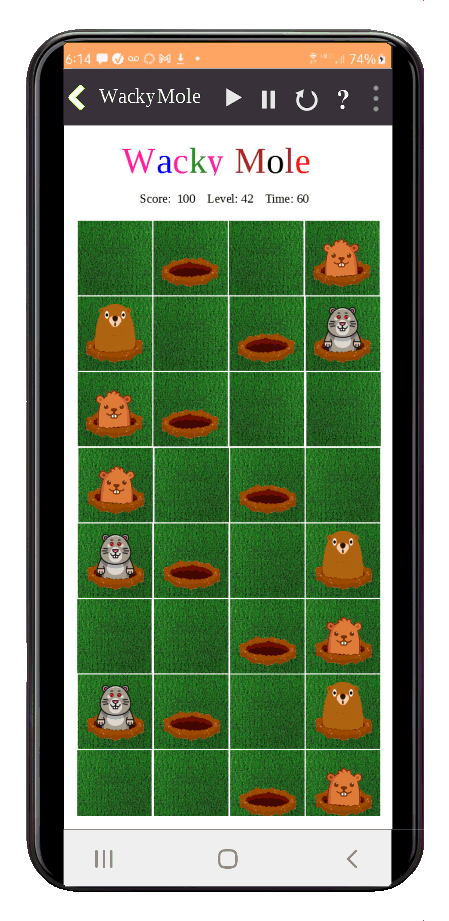
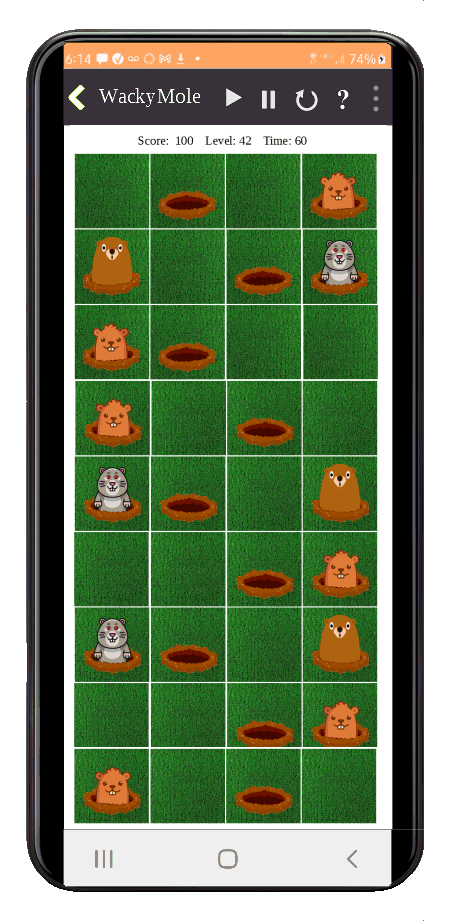
showing squares now and score

diff --git a/app/src/main/java/com/pstorli/wackymole/MoleActivity.kt b/app/src/main/java/com/pstorli/wackymole/MoleActivity.kt
@@ -6,6 +6,7 @@ import android.os.Bundle
 import android.view.View
 import android.view.ViewTreeObserver.OnGlobalLayoutListener
 import android.widget.GridView
+import android.widget.TextView
 import androidx.appcompat.app.AppCompatActivity
 import androidx.constraintlayout.widget.ConstraintLayout
 import androidx.lifecycle.ViewModelProvider
@@ -29,6 +30,9 @@ class MoleActivity : AppCompatActivity() {
     // Vars
     // *********************************************************************************************
     lateinit var board: GridView                                                                    // The board
+    lateinit var level: TextView                                                                    // The level
+    lateinit var score: TextView                                                                    // The score
+    lateinit var time:  TextView                                                                    // The time
 
     /**
      * Return / Create the view model.
@@ -47,7 +51,7 @@ class MoleActivity : AppCompatActivity() {
      */
     override fun onConfigurationChanged(newConfig: Configuration) {
         super.onConfigurationChanged(newConfig)
-        if (newConfig.orientation === Configuration.ORIENTATION_LANDSCAPE) {
+        if (newConfig.orientation == Configuration.ORIENTATION_LANDSCAPE) {
             "ORIENTATION LANDSCAPE".logInfo()
         } else {
             "ORIENTATION PORTRAIT".logInfo()
@@ -82,9 +86,32 @@ class MoleActivity : AppCompatActivity() {
     }
 
     /**
+     * Load GUI things from layout.
+     */
+    fun findGUIStuff () {
+
+        // Get the board.
+        board = findViewById (R.id.board)
+
+        // What level are we at?
+        level = findViewById (R.id.level)
+
+        // Have we scored?
+        score = findViewById (R.id.score)
+
+        // Does anybody really know what time it is?
+        time  = findViewById (R.id.time)
+
+    }
+
+    /**
      * Do this after we get the avail area.
      */
     fun delayedCreate (width: Int, height: Int) {
+
+        // Load up some items from the layout.
+        findGUIStuff ()
+
         // Get / Create the view model.
         val moleViewModel = getViewModel ()
 
@@ -94,11 +121,11 @@ class MoleActivity : AppCompatActivity() {
         // Adjust for the margin
         val margin: Int = this.resources.getDimension(R.dimen.mole_margin).toInt()+this.resources.getDimension(R.dimen.margin_adj).toInt()
 
-        // Set the screen size.
-        moleViewModel.setBoardSize (width, height, margin)
+        // Reduce size of grid to allow title and score lines to be shown.
+        val heightAdj = score.getLineHeight()
 
-        // Get the board.
-        board = findViewById (R.id.board)
+        // Set the screen size.
+        moleViewModel.setBoardSize (width, height-heightAdj, margin)
 
         // Set the number of columns
         board.numColumns = moleViewModel.cols
